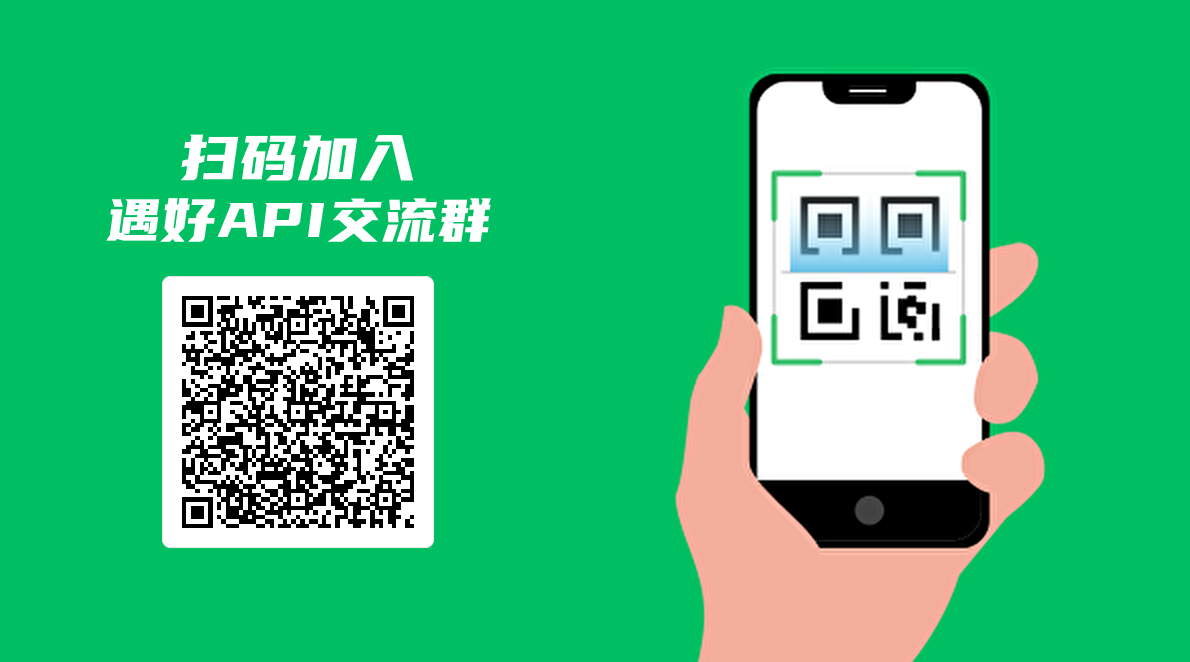
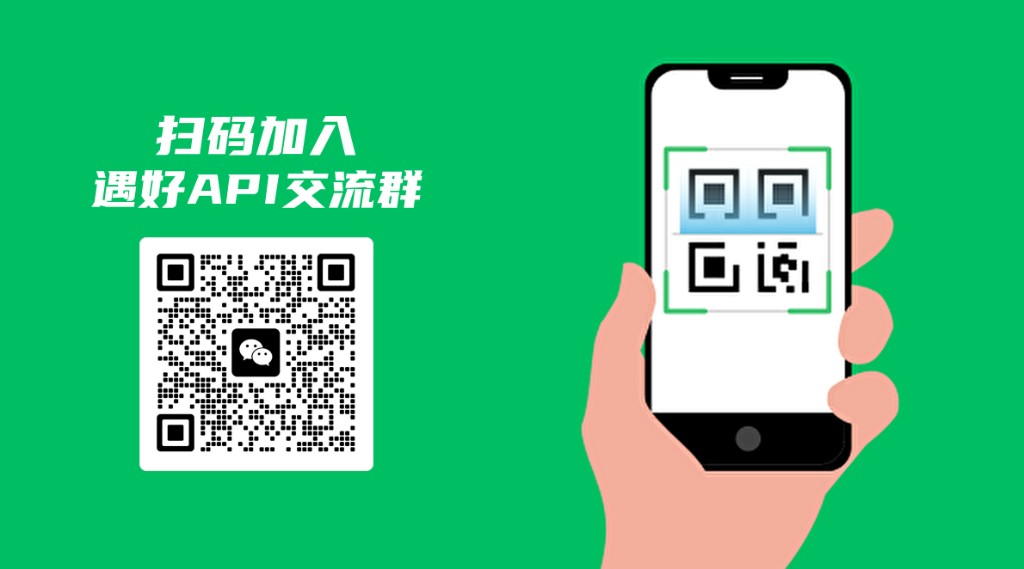
chore: update WeChat community QR on support page
Replace the user group invite image so visitors see the latest join code.

diff --git a/src/app/dashboard/support/page.tsx b/src/app/dashboard/support/page.tsx
@@ -24,8 +24,8 @@ export default function SupportPage() {
             <Image
               src="/support/wechat-group-qr.png"
               alt="遇好API 用户交流群微信二维码"
-              width={1190}
-              height={662}
+              width={1024}
+              height={569}
               className="h-auto w-full"
               priority
             />
